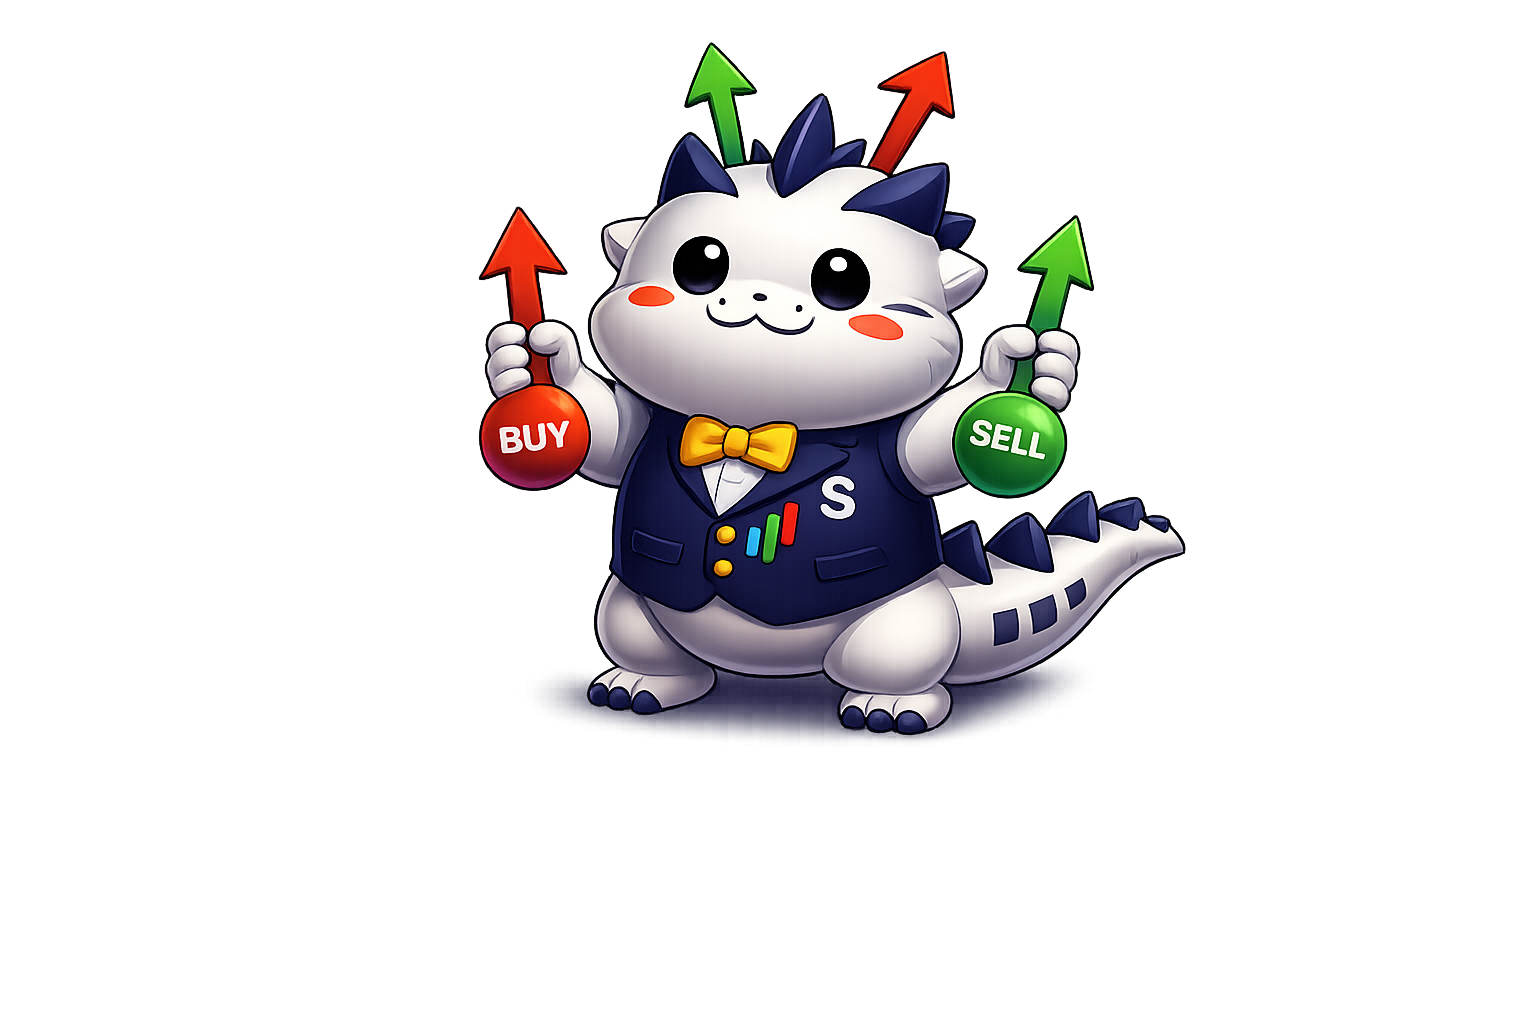
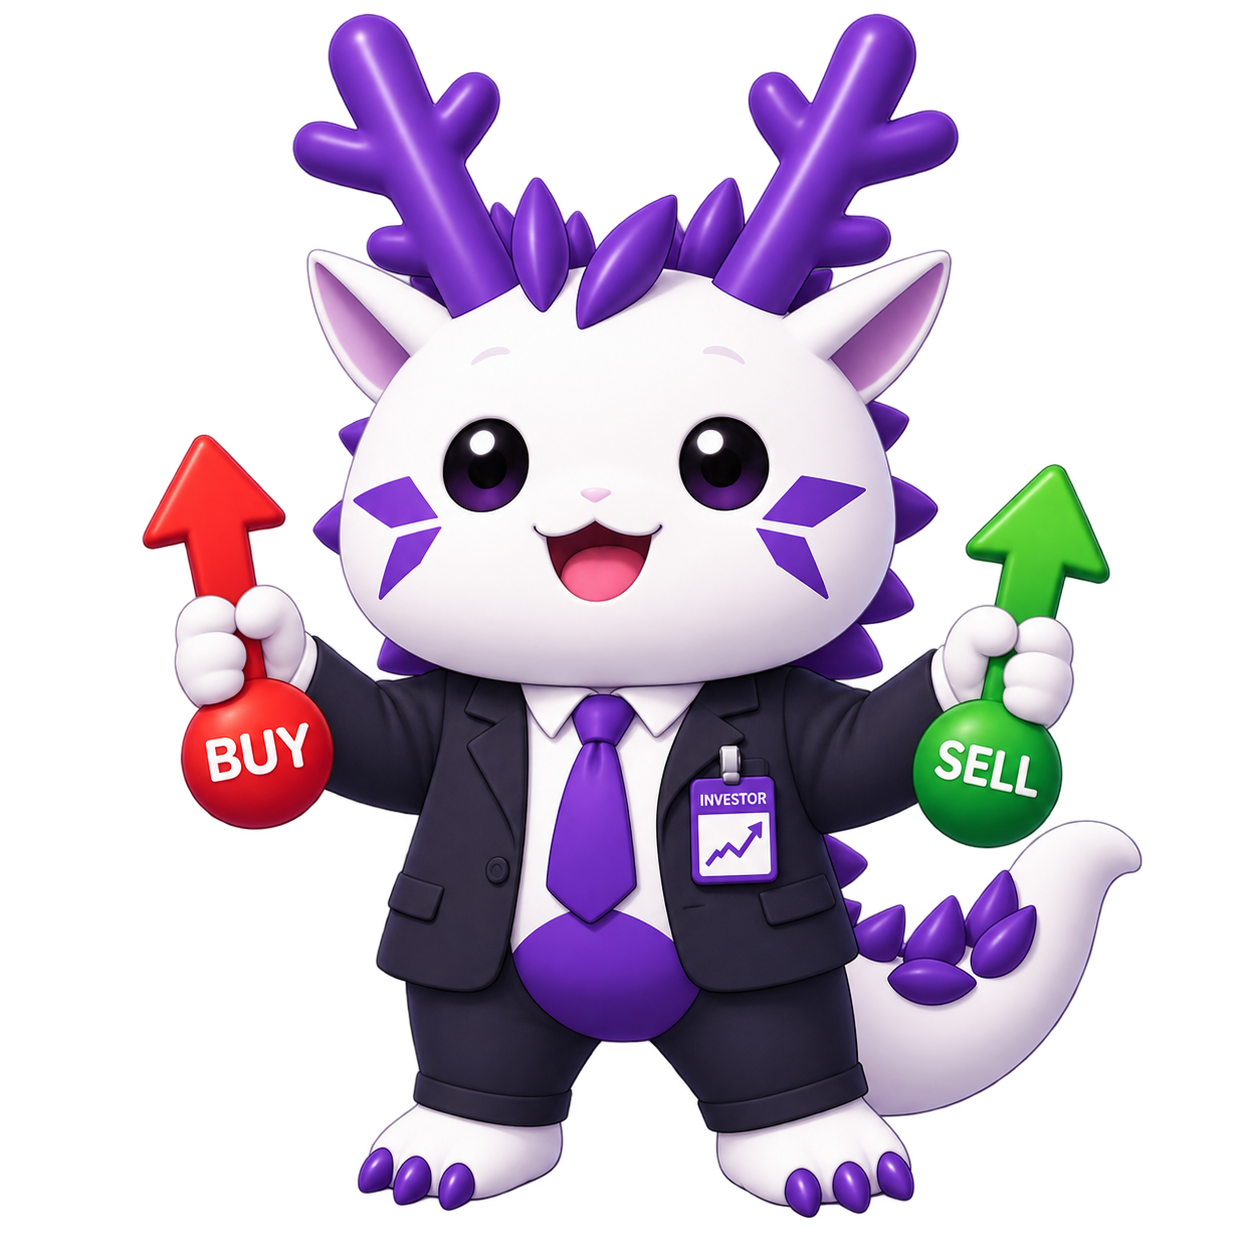
feat: 캐릭터 ui 통일

diff --git a/frontend/assets/css/ai.css b/frontend/assets/css/ai.css
@@ -15,8 +15,7 @@ body {
 .app-frame {
   position: relative;
 
-  width: 100%;
-  max-width: 1536px;
+  width: 1536px;
   aspect-ratio: 1536 / 1024;
 
   margin: 0 auto;
@@ -70,8 +69,8 @@ body {
 /* AI콘텐츠 영역  */
 .today-card .card-content {
   position: absolute;
-  left: 20%;
-  top: 35%;
+  left: 28%;
+  top: 36%;
   width: 40%;
   height: 100%;
 }
@@ -79,8 +78,8 @@ body {
 /*  추천 학습 콘텐츠 (리스트 카드)  */
 .list-card {
   position: absolute;
-  left: 28.91%;
-  top: 40.63%;
+  left: 32%;
+  top: 43.5%;
   width: 62.70%;
   height: 37.79%;
 }
@@ -124,10 +123,8 @@ body {
   color: #3d2e8f;
   font-size: 1cqw;
   line-height: 1.35;
-  display: -webkit-box;
-  -webkit-line-clamp: 2;
-  -webkit-box-orient: vertical;
-  overflow: hidden;
+
+  white-space: nowrap;
 }
 
 /*  버튼  */
@@ -150,8 +147,8 @@ body {
 
 /*학습시작 (primary)*/
 .btn-primary {
-  left: 59.81%;
-  top: 45%;
+  left: 27.5%;
+  top: 91%;
   width: 13.08%;
   height: 21.86%;
   background: #5638be;
@@ -164,8 +161,8 @@ body {
 
 /* 리스트 카드 각 항목 - "학습하기" (Secondary) */
 .btn-secondary {
-  left: 78%;
-  top: 60%;
+  left: 70%;
+  top: 62%;
   width: 19.73%;
   height: 41%;
   background: #c9bdf0;

diff --git a/frontend/assets/js/Gameplay.js b/frontend/assets/js/Gameplay.js
@@ -140,21 +140,21 @@ function showConcept() {
 
 // 캐릭터 이동
 const stagePosition = {
-    start: { x: -10, y: 570 },
-    1: { x: 330, y: 565 },
-    2: { x: 488, y: 567 },
-    3: { x: 645, y: 577 },
-    4: { x: 802, y: 581 },
-    5: { x: 922, y: 515 },
-    6: { x: 803, y: 425 },
-    7: { x: 760, y: 310 },
-    8: { x: 872, y: 225 },
-    9: { x: 928, y: 110 },
-    10: { x: 804, y: 27 },
-    11: { x: 635, y: 25 },
-    12: { x: 482, y: 27 },
-    13: { x: 319, y: 34 },
-    14: { x: 160, y: 0 }
+    start: { x: 47, y: 470 },
+    1: { x: 364, y: 545 },
+    2: { x: 523, y: 545 },
+    3: { x: 680, y: 550 },
+    4: { x: 835, y: 555 },
+    5: { x: 955, y: 490 },
+    6: { x: 836, y: 395 },
+    7: { x: 792, y: 280 },
+    8: { x: 906, y: 195 },
+    9: { x: 959, y: 78 },
+    10: { x: 840, y: 8 },
+    11: { x: 670, y: 8 },
+    12: { x: 515, y: 8 },
+    13: { x: 352, y: 10 },
+    14: { x: 195, y: 5 }
 };
 
 function moveCharacter(stage) {

diff --git a/frontend/assets/css/Signup.css b/frontend/assets/css/Signup.css
@@ -24,18 +24,18 @@
 /* 왼쪽 캐릭터 */
 .character_area {
     position: absolute;
-    left: -290px;
-    bottom: 120px;
+    left: -50px;
+    bottom: 140px;
     height: 500px;
 
-    z-index: 1;
+    z-index: 111;
     pointer-events: none;
 }
 
 .signup_character {
     position: relative;
     pointer-events: none;
-    width: 1100px;
+    width: 600px;
 }
 
 /* 회원가입 카드 */
@@ -221,6 +221,7 @@
         transform 0.15s,
         background 0.15s,
         box-shadow 0.15s;
+    cursor: pointer;
 }
 
 .login_back_button {

diff --git a/frontend/assets/css/Gameplay.css b/frontend/assets/css/Gameplay.css
@@ -112,14 +112,12 @@
 
 /* start */
 .player_character.start {
-    width: 450px;
-    height: 350px;
+    width: 370px;
 }
 
 /* 스테이지 */
 .player_character.stage {
-    width: 250px;
-    height: 200px;
+    width: 180px;
 }
 
 /* ============================================================ */
@@ -671,8 +669,8 @@
 
 /* 캐릭터 */
 .wrong_character {
-    width: 200px;
-    margin-top: -40px;
+    width: 290px;
+    margin-top: -42px;
 }
 
 .wrong_character img {

diff --git a/frontend/assets/css/index.css b/frontend/assets/css/index.css
@@ -18,7 +18,7 @@
     border-radius: 48px;
     background: linear-gradient(to bottom, #743BD1, #422091);
     border: 9px solid #D188F8;
-    margin-top: 550px;
+    margin-top: 540px;
     margin-left: 100px;
 
     display: flex;
@@ -39,7 +39,6 @@
 
 .index_char{
     width: 401px;
-    height: 459px;
-    margin-top: 420px;
+    margin-top: 400px;
     margin-left: 30px;
 }

diff --git a/frontend/assets/css/Login.css b/frontend/assets/css/Login.css
@@ -27,15 +27,15 @@ button {
 /* 캐릭터 영역 */
 .character_area {
     position: absolute;
-    left: -290px;
-    bottom: 120px;
+    left: -30px;
+    bottom: 160px;
     height: 500px;
 }
 
 .login_character {
     position: relative;
     z-index: 11111;
-    width: 1100px;
+    width: 650px;
     pointer-events: none;
 }
 

diff --git a/frontend/assets/css/mypage.css b/frontend/assets/css/mypage.css
@@ -411,3 +411,16 @@ body {
   background: linear-gradient(90deg, #7c5cfc, #5b3ce0);
   color: #ffffff;
 }
+
+.profile-image {
+    position: absolute;
+
+    left: 10%;
+    top: 21%;
+
+    width: 27%;
+
+    object-fit: cover;
+
+    z-index: 10;
+}

diff --git a/frontend/pages/mypage.html b/frontend/pages/mypage.html
@@ -19,6 +19,7 @@
     </button>
 
 
+    <img src="../assets/img/mypage_icon.png" alt="" class="profile-image">
     <!-- 프로필 카드 -->
     <section class="profile-card">
 
